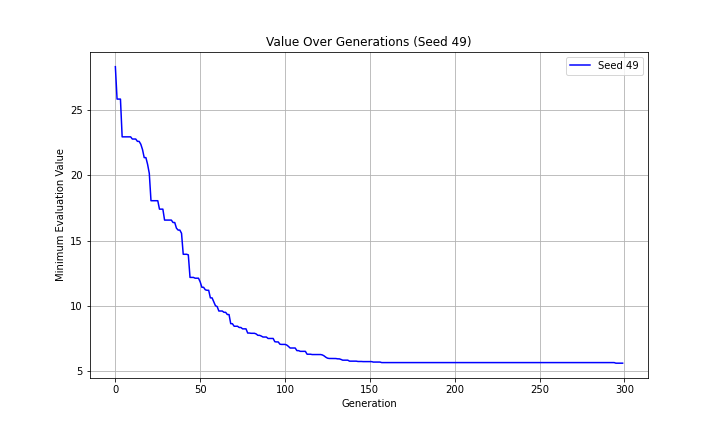
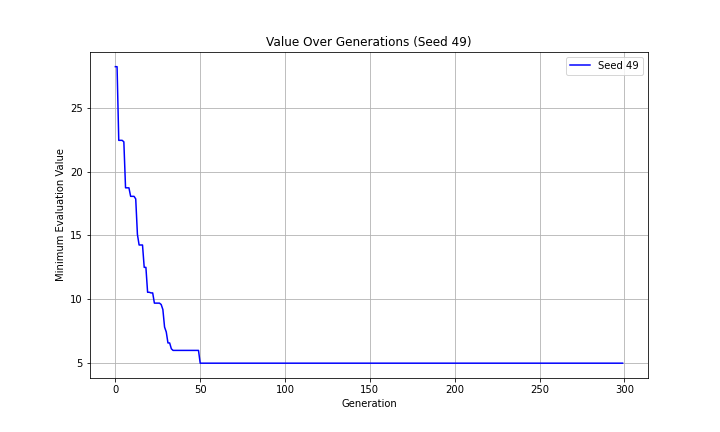
Add files via upload

diff --git a/project_scheduling/optimization.py b/project_scheduling/optimization.py
@@ -80,120 +80,3 @@ def solve_problem2(problem_data, seed = None):
 
     return result2, min_value_over_gens2  # 最適化結果と最小評価値のリストを返す
 
-def simulate_schedule1(result, problem_data, consider_failures=True):
-    robot_types, robot_initial_positions, J, p, task_attributes, P, R, T, robot_abilities, workspace, workspace_distance, moving_cost, C, RUB = problem_data
-
-    # スケジュールを取得
-    schedule = result.X.reshape((len(R), T))
-
-    # 故障を考慮する場合の設定
-    seed = 42  # シミュレーション用の固定シード
-    rng = np.random.default_rng(seed)
-
-    workload = np.zeros(len(J))
-    task_completed = np.zeros(len(J))
-    task_completion_time = np.full(len(J), -1)
-    current_workspace = {r: robot_initial_positions[r + 1] for r in range(len(R))}
-
-    for t in range(T):
-        for r in range(len(R)):
-            task = int(schedule[r, t])
-            if task > 0:
-                task_attr = task_attributes[task]
-                robot_type = problem_data[0][r + 1]  # ロボットタイプ
-                work = robot_abilities[robot_type][task_attr]
-                task_workspace = workspace[task]
-
-                # 移動コスト考慮
-                if current_workspace[r] != task_workspace:
-                    cost = moving_cost[current_workspace[r]][task_workspace]
-                    work = work * (1 - cost / robot_abilities[robot_type]['move'])
-                    current_workspace[r] = task_workspace
-
-                # 故障の確率を適用
-                if consider_failures and rng.random() > 1 - C:
-                    continue  # このステップは無効化
-
-                workload[task - 1] += work
-
-                # タスク完了判定
-                if workload[task - 1] >= p[task]:
-                    task_completed[task - 1] = 1
-                    if task_completion_time[task - 1] == -1:
-                        task_completion_time[task - 1] = t + 1
-
-    # 評価値の計算
-    evaluation_value = 0
-    if np.all(task_completed):
-        evaluation_value = np.max(task_completion_time)
-        print(f"All tasks completed by evaluation_value {evaluation_value}")
-    else:
-        # 未完了タスクがある場合は、まずTを加算する
-        evaluation_value += T
-        print(f"Some tasks are incomplete. Base evaluation value: {evaluation_value}")
-
-        # 残りの仕事量を合算する
-        for j in range(len(J)):
-            if task_completed[j] == 0:
-                remaining_workload = p[J[j]] - workload[j]
-                evaluation_value += remaining_workload   # 残り仕事量のみを追加
-                print(f"Task {J[j]} is incomplete. Remaining workload: {remaining_workload}. Total evaluation value now: {evaluation_value}")
-                
-    return evaluation_value
-
-def simulate_schedule2(result, problem_data, consider_failures=False):
-    robot_types, robot_initial_positions, J, p, task_attributes, P, R, T, robot_abilities, workspace, workspace_distance, moving_cost, C, RUB = problem_data
-
-    # スケジュールを取得
-    schedule = result.X.reshape((len(R), T))
-
-    # 故障を考慮する場合の設定
-    seed = 42  # シミュレーション用の固定シード
-    rng = np.random.default_rng(seed)
-
-    workload = np.zeros(len(J))
-    task_completed = np.zeros(len(J))
-    task_completion_time = np.full(len(J), -1)
-    current_workspace = {r: robot_initial_positions[r + 1] for r in range(len(R))}
-
-    for t in range(T):
-        for r in range(len(R)):
-            task = int(schedule[r, t])
-            if task > 0:
-                task_attr = task_attributes[task]
-                robot_type = problem_data[0][r + 1]  # ロボットタイプ
-                work = robot_abilities[robot_type][task_attr]
-                task_workspace = workspace[task]
-
-                # 移動コスト考慮
-                if current_workspace[r] != task_workspace:
-                    cost = moving_cost[current_workspace[r]][task_workspace]
-                    work = work * (1 - cost / robot_abilities[robot_type]['move'])
-                    current_workspace[r] = task_workspace
-
-                workload[task - 1] += work
-
-                # タスク完了判定
-                if workload[task - 1] >= p[task]:
-                    task_completed[task - 1] = 1
-                    if task_completion_time[task - 1] == -1:
-                        task_completion_time[task - 1] = t + 1
-
-    # 評価値の計算
-    evaluation_value = 0
-    if np.all(task_completed):
-        evaluation_value = np.max(task_completion_time)
-        print(f"All tasks completed by evaluation_value {evaluation_value}")
-    else:
-        # 未完了タスクがある場合は、まずTを加算する
-        evaluation_value += T
-        print(f"Some tasks are incomplete. Base evaluation value: {evaluation_value}")
-
-        # 残りの仕事量を合算する
-        for j in range(len(J)):
-            if task_completed[j] == 0:
-                remaining_workload = p[J[j]] - workload[j]
-                evaluation_value += remaining_workload   # 残り仕事量のみを追加
-                print(f"Task {J[j]} is incomplete. Remaining workload: {remaining_workload}. Total evaluation value now: {evaluation_value}")
-                
-    return evaluation_value

diff --git a/project_scheduling/simulate_failure.py b/project_scheduling/simulate_failure.py
@@ -1,0 +1,70 @@
+# -*- coding: utf-8 -*-
+"""
+Created on Fri Dec  6 08:23:11 2024
+
+@author: k5kei
+"""
+
+import numpy as np
+
+def simulate_schedule1(result, problem_data, consider_failures=True):
+    robot_types, robot_initial_positions, J, p, task_attributes, P, R, T, robot_abilities, workspace, workspace_distance, moving_cost, C, RUB = problem_data
+
+    schedule = result.X.reshape((len(R), T))
+    
+    seeds = range(80, 90)
+    
+    evaluation_values_per_seed = []  # 各シード値の評価値を格納するリスト
+    
+    for seed in seeds:
+    
+        rng = np.random.default_rng(seeds)
+    
+        workload = np.zeros(len(J))
+        task_completed = np.zeros(len(J))
+        task_completion_time = np.full(len(J), -1)
+        current_workspace = {r: robot_initial_positions[r + 1] for r in range(len(R))}
+    
+        for t in range(T):
+            for r in range(len(R)):
+                
+                task = int(schedule[r, t])
+                
+                if task > 0:
+                    task_attr = task_attributes[task]
+                    robot_type = problem_data[0][r + 1]
+                    work = robot_abilities[robot_type][task_attr]
+                    task_workspace = workspace[task]
+                    
+                    if current_workspace[r] != task_workspace:
+                        cost = moving_cost[current_workspace[r]][task_workspace]
+                        work = work * (1 - cost / robot_abilities[robot_type]['move'])
+                        current_workspace[r] = task_workspace
+                        
+                    if consider_failures and rng.random() > 1 - C:
+                        continue
+                    
+                    workload[task - 1] += work
+                    if workload[task - 1] >= p[task]:
+                        task_completed[task - 1] = 1
+                        if task_completion_time[task - 1] == -1:
+                            task_completion_time[task - 1] = t + 1
+
+            # シード値ごとの評価値を保存
+        evaluation_value_seed = 0
+        if np.all(task_completed):
+            evaluation_value_seed = np.max(task_completion_time)
+        else:
+            evaluation_value_seed += T
+            for j in range(len(J)):
+                if task_completed[j] == 0:
+                    remaining_workload = p[J[j]] - workload[j]
+                    evaluation_value_seed += remaining_workload
+                
+        # シード値ごとの評価値をリストに追加
+        evaluation_values_per_seed.append(evaluation_value_seed)
+                
+            # シード範囲の平均を計算
+    evaluation_with_failure = np.mean(evaluation_values_per_seed)
+
+    return evaluation_with_failure

diff --git a/project_scheduling/simulate_no_failure.py b/project_scheduling/simulate_no_failure.py
@@ -1,0 +1,62 @@
+# -*- coding: utf-8 -*-
+"""
+Created on Fri Dec  6 08:36:27 2024
+
+@author: k5kei
+"""
+
+import numpy as np
+
+def simulate_schedule2(result, problem_data, consider_failures=False):
+    robot_types, robot_initial_positions, J, p, task_attributes, P, R, T, robot_abilities, workspace, workspace_distance, moving_cost, C, RUB = problem_data
+    schedule = result.X.reshape((len(R), T))
+    
+    seeds = range(80, 90)
+    
+    evaluation_values_per_seed = []  # 各シード値の評価値を格納するリスト
+    
+    for seed in seeds:
+    
+        rng = np.random.default_rng(seeds)
+    
+        workload = np.zeros(len(J))
+        task_completed = np.zeros(len(J))
+        task_completion_time = np.full(len(J), -1)
+        current_workspace = {r: robot_initial_positions[r + 1] for r in range(len(R))}
+    
+        for t in range(T):
+            for r in range(len(R)):
+                task = int(schedule[r, t])
+                if task > 0:
+                    task_attr = task_attributes[task]
+                    robot_type = problem_data[0][r + 1]
+                    work = robot_abilities[robot_type][task_attr]
+                    task_workspace = workspace[task]
+                    if current_workspace[r] != task_workspace:
+                        cost = moving_cost[current_workspace[r]][task_workspace]
+                        work = work * (1 - cost / robot_abilities[robot_type]['move'])
+                        current_workspace[r] = task_workspace
+                    workload[task - 1] += work
+                    if workload[task - 1] >= p[task]:
+                        task_completed[task - 1] = 1
+                        if task_completion_time[task - 1] == -1:
+                            task_completion_time[task - 1] = t + 1
+
+            # シード値ごとの評価値を保存
+        evaluation_value_seed = 0
+        if np.all(task_completed):
+            evaluation_value_seed = np.max(task_completion_time)
+        else:
+            evaluation_value_seed += T
+            for j in range(len(J)):
+                if task_completed[j] == 0:
+                    remaining_workload = p[J[j]] - workload[j]
+                    evaluation_value_seed += remaining_workload
+                
+        # シード値ごとの評価値をリストに追加
+        evaluation_values_per_seed.append(evaluation_value_seed)
+                
+            # シード範囲の平均を計算
+    evaluation_without_failure = np.mean(evaluation_values_per_seed)
+
+    return evaluation_without_failure

diff --git a/project_scheduling/plot.py b/project_scheduling/plot.py
@@ -81,9 +81,9 @@ def plot_schedule(result1, J, R, T, robot_types):
 
     plt.show()
 
-def plot_value_over_generations(min_value_over_gens, seed):
+def plot_value_over_generations(min_value_over_gens1, seed):
     plt.figure(figsize=(10, 6))
-    plt.plot(min_value_over_gens, color='b', label=f'Seed {seed}')
+    plt.plot(min_value_over_gens1, color='b', label=f'Seed {seed}')
     plt.xlabel('Generation')
     plt.ylabel('Minimum Evaluation Value')
     plt.title(f'Value Over Generations (Seed {seed})')
@@ -180,9 +180,9 @@ def plot_schedule2(result2, J, R, T, robot_types):
 
     plt.show()
 
-def plot_value_over_generations2(min_value_over_gens, seed):
+def plot_value_over_generations2(min_value_over_gens2, seed):
     plt.figure(figsize=(10, 6))
-    plt.plot(min_value_over_gens, color='b', label=f'Seed {seed}')
+    plt.plot(min_value_over_gens2, color='b', label=f'Seed {seed}')
     plt.xlabel('Generation')
     plt.ylabel('Minimum Evaluation Value')
     plt.title(f'Value Over Generations (Seed {seed})')

diff --git a/project_scheduling/main.py b/project_scheduling/main.py
@@ -13,15 +13,15 @@ import numpy as np
 from data import make_1r
 from optimization import solve_problem
 from optimization import solve_problem2
-from optimization import simulate_schedule1
-from optimization import simulate_schedule2
+from simulate_failure import simulate_schedule1
+from simulate_no_failure import simulate_schedule2
 from plot import plot_schedule, plot_value_over_generations, plot_average_value_over_generations
 from plot import plot_schedule2, plot_value_over_generations2, plot_average_value_over_generations2
 
 def main():
     all_min_values1 = []  # 各シードの評価値推移を保存するリスト
     all_min_values2 = []  # 各シードの評価値推移を保存するリスト
-    seeds = range(42, 52)
+    seeds = range(60, 70)
     results_stage1 = {"with_failure": [], "without_failure": []}
     evaluation_values = {"with_failure": {"failure": [], "no_failure": []},
                          "without_failure": {"failure": [], "no_failure": []}}

diff --git a/project_scheduling/problem.py b/project_scheduling/problem.py
@@ -52,9 +52,8 @@ class ResourceConstrainedSchedulingProblem(Problem):
             print(f"--- Evaluation of Individual {i+1} ---")
 
             # シード値を定義
-            seeds = range(1, 6)
+            seeds = range(1, 11)
             
-
             evaluation_values_per_seed = []  # 各シード値の評価値を格納するリスト
             
             for seed in seeds:

diff --git a/project_scheduling/problem2.py b/project_scheduling/problem2.py
@@ -52,7 +52,7 @@ class ResourceConstrainedSchedulingProblem2(Problem):
             print(f"--- Evaluation of Individual {i+1} ---")
 
             # シード値を定義
-            seeds = range(1, 6)
+            seeds = range(1, 11)
             evaluation_values_per_seed = []  # 各シード値の評価値を格納するリスト
             
             for seed in seeds:
